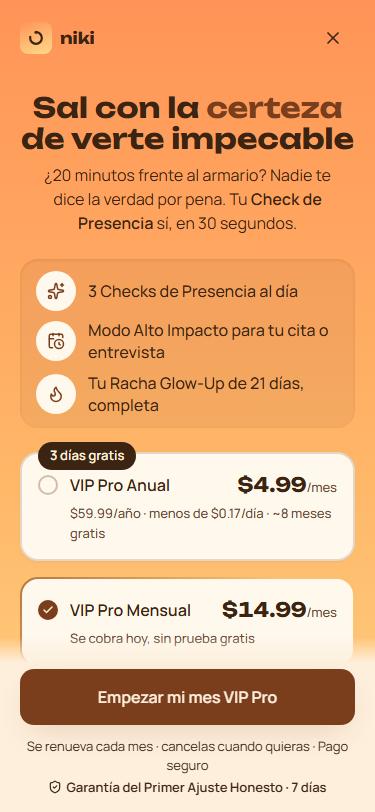
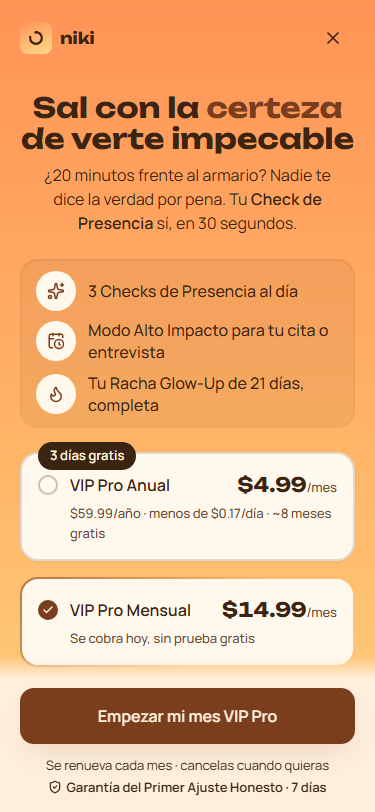
docs: veredictos finales de recorrido de inicio y planes (LISTA) sobre el codigo actual

Changed region(s): [[0.0, 0.7697, 1.0, 0.9544]]

diff --git a/docs/revisiones/paywall-veredicto.md b/docs/revisiones/paywall-veredicto.md
@@ -1,44 +1,39 @@
 # VEREDICTO revisor-visual — paywall
-Fecha: 2026-10-06 13:00
+Fecha: 2026-10-06 14:00
 Screenshot: docs/revisiones/paywall-375.png
 Usabilidad: 36/40
 Craft: 16/20
-Copy (si vende): 17/20
+Copy (si vende): 18/20
 Fidelidad (si hubo referencia): N-A
 Veredicto: LISTA
 Top defectos: ver lista
 
 Detalle usabilidad: h1:4 h2:3 h3:4 h4:4 h5:4 h6:4 h7:3 h8:3 h9:3 h10:4
-Detalle copy: idea:3 especificidad:3 emoción:4 oferta:3 acción:4
 Detalle craft: jerarquía:3 profundidad:4 identidad:3 movimiento:3 encaje:3
+Detalle copy: idea:3 especificidad:3 emoción:4 oferta:4 acción:4
 Otros screenshots revisados: docs/revisiones/repaso-2026-10-06/paywall-pliegue-375.png, docs/revisiones/repaso-2026-10-06/paywall-mensual-375.png
-Código revisado: app/paywall/page.tsx (líneas 44, 256, 381, 408)
-Tipo de pasada: segunda pasada de hoy, tras corregir los defectos 1-4 de la primera.
+Código revisado: app/paywall/page.tsx (franja fija, líneas 382-417)
+Tipo de pasada: tercera pasada de hoy (final), tras corregir los defectos 1 y 2 de la segunda.
 
 ## TOP DEFECTOS (ninguno baja el gate; pasa en el mínimo exacto: 36/40 y 16/20)
-1. [Nota bajo el botón, page.tsx:408] Al cambiar el nombre de la garantía se perdió el plazo: ahora dice "Garantía del Primer Ajuste Honesto · Pago seguro", sin "7 días". El sub-check binario "garantía con nombre Y plazo cerca del CTA" FALLA: el plazo solo aparece en la tarjeta de abajo, fuera del pliegue (oferta 4→3). Es una regresión de esta pasada. → Fix: "Garantía del Primer Ajuste Honesto · 7 días" y pasar "Pago seguro" a la línea de arriba, o bajar a 12px si no cabe.
-2. [Plan Mensual elegido, primer pliegue] La nota de renovación ya no se ve lavada: ahora queda tapada del todo por la franja opaca. Quien elige Mensual paga sin ver "se renueva cada mes · cancelas cuando quieras" (en Anual sí aparece "Hoy pagas $0" bajo el botón). → Fix: en Mensual, poner bajo el botón la línea equivalente "Se renueva cada mes · cancelas cuando quieras" (page.tsx:401, rama `plan === 'mensual'`).
-3. [Primer pliegue en estado Anual, borde inferior de la tarjeta Mensual] Con el degradé al 85% ya no asoma la tarjeta de prueba, pero el borde inferior de la tarjeta Mensual se funde en la franja: tarjeta cortada (lupa → encaje 3). → Fix: `gap-3` entre planes, o aceptar el corte y dejarlo en el borde (no está a mitad de texto).
-4. [Tarjeta Anual, page.tsx:42 y :44] Sigue "$4.99/mes", aunque $4.99 × 12 = $59.88 y no $59.99. La coherencia con la landing no lo vuelve exacto, solo replica el error en 2 sitios (especificidad 3). Además, "gratis" queda sola en la 2ª línea del detalle. → Fix: "$5/mes" en la landing y en el paywall a la vez, y acortar el detalle a "$59.99/año · <$0.17/día · ~8 meses gratis".
-5. [Escala tipográfica, page.tsx:281/162/160/167] Siguen 4 tamaños (28/20/16/13), uno más que el máximo de 3 (jerarquía 3). → Fix: precio de la tarjeta a 16px bold display.
+1. [Tarjeta Anual, page.tsx:42 y :44] "$4.99/mes" sigue sin cuadrar: $4.99 × 12 = $59.88, pero se cobran $59.99. La landing repite el mismo error (especificidad 3). Además, "gratis" queda sola en la 2ª línea del detalle. → Fix: "$5/mes" en la landing y en el paywall a la vez, y "$59.99/año · <$0.17/día · ~8 meses gratis" para que quepa en 1 línea.
+2. [Primer pliegue, borde inferior de la tarjeta Mensual] El borde inferior de la tarjeta se funde en la franja fija. El corte cae en el borde, no en el texto: solo se ve con lupa (encaje 3). → Fix: `gap-3` entre los planes, o 8px menos de margen sobre ellos.
+3. [Línea bajo el botón en Anual, page.tsx:408] Se quitó "(Hotmart muestra el precio anual)". Al llegar al pago, quien vio "Hoy pagas $0" encuentra $59.99 en Hotmart, y la aclaración ahora solo está en la tarjeta de prueba, fuera del pliegue. → Fix: "Hoy pagas $0 · Hotmart muestra $59.99 del año" (y "Pago seguro" junto a la garantía).
+4. [Escala tipográfica, page.tsx:281/162/160/167] Siguen 4 tamaños (28/20/16/13), uno más del máximo de 3 (jerarquía 3). → Fix: precio de la tarjeta a 16px bold display.
+5. ["$0" dicho 2 veces: paso "Hoy" de la tarjeta de prueba y línea bajo el botón] Redundancia leve (h8 3). → Fix: dejar el paso "Hoy" en "Acceso completo, sin cobro".
 
 ## Notas de verificación
-- Corregidos y visibles en los renders:
-  - Ya no asoma la tarjeta de prueba en el pliegue Anual.
-  - Mismo nombre de garantía en tarjeta, landing, /reembolsos y bajo el botón (h4 vuelve a 4).
-  - "menos de $0.17/día" en el detalle del Anual.
-  - Franja al 85% con pt-8 (:381) y pb del main a 160px (:256).
+- Corregidos y visibles en los 3 renders:
+  - Bajo el botón en Anual: "Hoy pagas $0 · Pago seguro con Hotmart".
+  - Bajo el botón en Mensual: "Se renueva cada mes · cancelas cuando quieras".
+  - En los dos estados, debajo: "Garantía del Primer Ajuste Honesto · 7 días". El sub-check de garantía con nombre y plazo junto al botón PASA (oferta vuelve a 4).
+- El evento de medición (page.tsx:387) solo envía el plan y la red de origen. No lleva datos personales ni efecto visual. Vercel Analytics no cambia el render.
 - Gate de carga cognitiva: 0 fallas.
 - CTA héroe vivo: cumple los 4.
   - Contraste ≈7.6:1.
   - whileTap 0.97.
   - Nunca deshabilitado. Se recupera con pageshow y un timeout de 8 s.
   - h-14 a ancho completo, fijo y con safe-area.
-- FICHA-ARTE:
-  - Coinciden el degradé atardecer, la superficie #FFF3DE, el acento #7A3E1D y Unbounded/Manrope.
-  - Radios: los del kit.
-- Copy:
-  - Trazado a FICHA-AVATAR: deseo #1, dolor #1 y objeciones #5 y #6.
-  - Message-match: no verificable.
-  - Sub-check de garantía junto al botón: FALLA (defecto 1).
-- Margen cero: cualquier regresión devuelve la pantalla a NO LISTA. Los defectos 1 y 2 son de 1 línea cada uno y conviene corregirlos antes de lanzar tráfico pagado.
+- FICHA-ARTE: coinciden el degradé atardecer, la superficie #FFF3DE, el acento #7A3E1D, Unbounded/Manrope y los radios del kit.
+- Copy trazado a FICHA-AVATAR: deseo #1, dolor #1 y objeciones #5 y #6. Message-match: no verificable.
+- Margen cero: cualquier regresión devuelve la pantalla a NO LISTA.

diff --git a/docs/revisiones/onboarding-veredicto.md b/docs/revisiones/onboarding-veredicto.md
@@ -1,5 +1,5 @@
 # VEREDICTO revisor-visual — onboarding
-Fecha: 2026-10-06 14:00
+Fecha: 2026-10-06 16:00
 Screenshot: docs/revisiones/onboarding-375.png
 Usabilidad: 36/40
 Craft: 16/20
@@ -7,17 +7,17 @@ Copy (si vende): 18/20
 Copy: 18/20
 Fidelidad (si hubo referencia): N-A
 Veredicto: LISTA
-Screenshots evaluados: docs/revisiones/repaso-2026-10-06/onboarding-00, 01, 02, 03, 04 (nueva), 05, 06, 07, 09 (nueva) (-375.png) · Código: app/onboarding/page.tsx + components/landing/ui.tsx (EnlaceCta)
+Screenshots evaluados: docs/revisiones/repaso-2026-10-06/onboarding-00..09-375.png (regeneradas, 3a pasada) · Código: app/onboarding/page.tsx + components/landing/ui.tsx (EnlaceCta)
 Detalle usabilidad: h1:4 h2:3 h3:4 h4:3 h5:4 h6:4 h7:4 h8:3 h9:3 h10:4
 Detalle craft: jerarquía:3 profundidad:3 identidad:3 movimiento:4 encaje:3
 Detalle copy: idea:3 especificidad:3 emoción:4 oferta:4 acción:4
 Top defectos:
-1. [09 Resultado, fila "Lo que Niki va a revisar en tu foto:" (app/onboarding/page.tsx:738-757)] Defecto nuevo de esta pasada. Al subir la nota, la fila Outfit/Postura/Actitud bajó y a 812px el CTA fijo tapa sus 3 candados: solo se leen las etiquetas, cortadas, justo encima del botón. A 667px la fila desaparece entera. Fix: compactar la fila a una línea de 3 chips "Outfit · Postura · Actitud", cada uno con un Lock de 12px dentro (h-8, gap-2), o quitar el subtítulo de la línea 738 y meter los 3 chips como quinta fila de la tarjeta del plan ("Niki revisa").
-2. [00 Apertura, banner "¡Bienvenidos!" (page.tsx:426-430), DECISIÓN DEL DUEÑO, sin corregir] Según el coordinador, el banner lo pidió el dueño; no puedo verificarlo en ningún archivo. Su amarillo saturado no aparece en FICHA-ARTE, compite con el H1 como segundo titular y el plural masculino choca con el tuteo singular. Fix: si el dueño lo confirma, registrar el banner y su amarillo en FICHA-ARTE.md con fecha y usos permitidos (como se hizo con --gold y --gray-claro); si no, retirarlo y dejar a niki-saludando como héroe sobre el H1.
-3. [Encabezado de todos los pasos (page.tsx:202)] Sin corregir desde el 2026-09-25. El lema "Tu Check de Presencia antes de salir" se repite en cada paso, y en 09 la frase "Check de Presencia" aparece 3 veces en una sola vista (lema, H1, CTA). Fix: dejar solo "niki" en el encabezado de los pasos.
-4. [03 Reconocimiento, composición] Sin corregir. Hay unos 140px de aire muerto arriba y unos 200px abajo, ocupados solo por los anillos decorativos. Fix: pasar a justify-start con pt-16 o añadir un chip de apoyo ("Lo revisa en cada foto: Outfit").
-5. [00 Apertura, niki-saludando (page.tsx:435)] Es un img estático, sin entrada ni gesto, en la única pantalla donde la mascota saluda. Fix: motion.img con spring de entrada y un balanceo único de la mano (rotate -8→8→0, 600ms), respetando useReducedMotion.
-Resuelto en esta pasada (verificado en screenshot y código): la nota "Sin notas crueles… 3 días gratis" ya se lee entera, sin lavado (page.tsx:731-736, degradé al 30%) · niki-celebrando pasó a size-20 mt-4, consistente con 00/06 · el subtítulo de Ocasión es "Así Niki adapta tu outfit, postura y actitud a ese momento." · el CTA usa EnlaceCta (components/landing/ui.tsx:154-180) con spinner Loader2, aria-busy, aviso a los 8 s "Revisa tu conexión y vuelve a tocar" y role=status para lectores de pantalla.
-CTA héroe vivo: cumple 4/4 (#7A3E1D con texto crema, unos 8:1, whileTap 0.97 en MotionLink, nunca disabled, h-14 a ancho completo y fijo en la zona del pulgar) y ahora muestra un estado de espera.
-Ficha: Unbounded/Manrope, acento #7A3E1D, radios 14/18 y degradé atardecer coinciden con FICHA-ARTE. El único desvío es el amarillo del banner, que queda sin registrar (defecto 2).
-Condición: esta pasada llega justo a los umbrales (36/40 y 16/20). Si el dueño no confirma el banner y este no se registra en la ficha, la pantalla vuelve a NO LISTA en la próxima revisión.
+1. [00 Apertura, banner "¡Bienvenidos!" (app/onboarding/page.tsx:426-430), DECISIÓN DEL DUEÑO, sin registrar] Su amarillo saturado no está en FICHA-ARTE, compite con el H1 como segundo titular y el plural masculino choca con el tuteo singular. Fix: registrarlo en FICHA-ARTE.md con fecha, color y usos permitidos (como --gold/--gray-claro) cuando el dueño lo confirme; si no lo confirma, retirarlo.
+2. [09 Resultado, chips Outfit/Postura/Actitud (page.tsx:742-752)] Ya se ven completos a 812px, pero quedan a unos 8px del borde superior de la franja del CTA, apretados contra el botón. Además son píldoras con fondo de acento, la misma forma que tendría un chip tocable, y no responden al tocarlas. Fix: cambiar mt-6 por mt-4 en el subtítulo (línea 739) para ganar aire, y darles un borde fino sin relleno (o quitar rounded-full por radius 8) para que no parezcan filtros.
+3. [Encabezado de todos los pasos (page.tsx:202)] Sin corregir. El lema "Tu Check de Presencia antes de salir" se repite en cada paso, y en 09 "Check de Presencia" aparece 3 veces en una sola vista. Fix: dejar solo "niki" en el encabezado de los pasos.
+4. [03 Reconocimiento, composición] Sin corregir. Hay unos 140px de aire muerto arriba y unos 200px abajo. Fix: pasar a justify-start con pt-16 o añadir un chip de apoyo.
+5. [00 Apertura, niki-saludando (page.tsx:435)] Es un img estático, sin entrada ni gesto. Fix: motion.img con spring de entrada y un balanceo único de la mano (600ms), respetando useReducedMotion.
+Resuelto en esta pasada: la fila de lo que Niki revisa es ahora una sola línea de 3 chips con candado de 12px y aria-label en la lista; ya no la tapa el CTA a 812px. Se mantiene lo resuelto en la 2a pasada: nota de la prueba gratis legible, mascota del resultado a size-20, subtítulo de Ocasión sin "ejes" y EnlaceCta con spinner, aria-busy y aviso a los 8 s.
+Medición anónima y Vercel Analytics: sin efecto visual, no se puntúan.
+CTA héroe vivo: 4/4. Ficha: coincide salvo el amarillo del banner (defecto 1).
+Condición: esta pasada llega justo a los umbrales (36/40 y 16/20). Si el banner no se registra en la ficha con la confirmación del dueño, la pantalla vuelve a NO LISTA en la próxima revisión.

diff --git a/ESTADO.md b/ESTADO.md
@@ -403,7 +403,7 @@ Niki analiza fotos de cuerpo entero por IA y da feedback instantáneo de outfit,
 - Cuando exista la app interna: montar los screenshots reales en el carrusel de la landing y volver a pasar el revisor-visual para cerrar esa puerta del todo
 
 ## Problemas conocidos ⚠
-- veredicto:onboarding y veredicto:paywall — RE-REVISADOS 2026-10-06 (2 pasadas c/u): LISTA 36/40·16/20 ambos (copy 18 y 17). Después del veredicto se aplicaron SOLO defectos señalados por el propio revisor en la 2ª pasada: onboarding → candados de "Lo que Niki va a revisar" compactados en 3 chips de una línea (el CTA fijo los tapaba); paywall → bajo el botón "Garantía del Primer Ajuste Honesto · 7 días" (recupera el plazo) y en Mensual "Se renueva cada mes · cancelas cuando quieras" (antes quedaba tapada). Capturas actualizadas en docs/revisiones/repaso-2026-10-06/. Pendientes del revisor, no bloqueantes: banner "¡Bienvenidos!" (decisión del DUEÑO: amarillo fuera de FICHA-ARTE y plural masculino — si lo confirma, registrarlo en FICHA-ARTE; si no, quitarlo), lema repetido en el encabezado de cada paso, aire muerto en "No es falta de estilo", mascota de apertura estática, $4.99×12≠$59.99 (proponer "$5/mes" en landing+planes), 4 tamaños de letra en planes.
+- veredicto:onboarding y veredicto:paywall — 3ª PASADA FINAL 2026-10-06 sobre el código actual (commit del 6-oct): onboarding LISTA 36/40·16/20·copy 18; paywall LISTA 36/40·16/20·copy 18 — vigentes. Siguiente pulido del paywall (no tocado para no caducar el veredicto la víspera del lanzamiento): bajo el botón Anual volver a aclarar el precio ("Hoy pagas $0 · Hotmart muestra $59.99 del año"), gap-3 entre planes, "$5/mes" en landing+planes, paso Hoy de la prueba sin repetir $0. Onboarding: chips de ejes con borde fino (no parecer filtros) y mt-4. Historial: RE-REVISADOS 2026-10-06 (2 pasadas c/u): LISTA 36/40·16/20 ambos (copy 18 y 17). Después del veredicto se aplicaron SOLO defectos señalados por el propio revisor en la 2ª pasada: onboarding → candados de "Lo que Niki va a revisar" compactados en 3 chips de una línea (el CTA fijo los tapaba); paywall → bajo el botón "Garantía del Primer Ajuste Honesto · 7 días" (recupera el plazo) y en Mensual "Se renueva cada mes · cancelas cuando quieras" (antes quedaba tapada). Capturas actualizadas en docs/revisiones/repaso-2026-10-06/. Pendientes del revisor, no bloqueantes: banner "¡Bienvenidos!" (decisión del DUEÑO: amarillo fuera de FICHA-ARTE y plural masculino — si lo confirma, registrarlo en FICHA-ARTE; si no, quitarlo), lema repetido en el encabezado de cada paso, aire muerto en "No es falta de estilo", mascota de apertura estática, $4.99×12≠$59.99 (proponer "$5/mes" en landing+planes), 4 tamaños de letra en planes.
 - ANALÍTICA: el código de Vercel Web Analytics está publicado pero el dueño debe ACTIVARLO (Vercel → proyecto niki → Analytics → Enable). Hasta entonces la consola del navegador muestra un 404 de /_vercel/insights/script.js (inofensivo).
 - VELOCIDAD: no se puede medir limpio en esta laptop (Kaspersky inyecta script y desactiva compresión). Medir con el antivirus en pausa o desde PageSpeed Insights web.
 - veredicto:paywall — 5ª edición (2026-10-04): solo LÓGICA, sin cambio visual: el link de pago agrega la red de origen al sck (leerOrigen). Probado: /?src=tiktok → sck=tiktok_paywall_anual.
